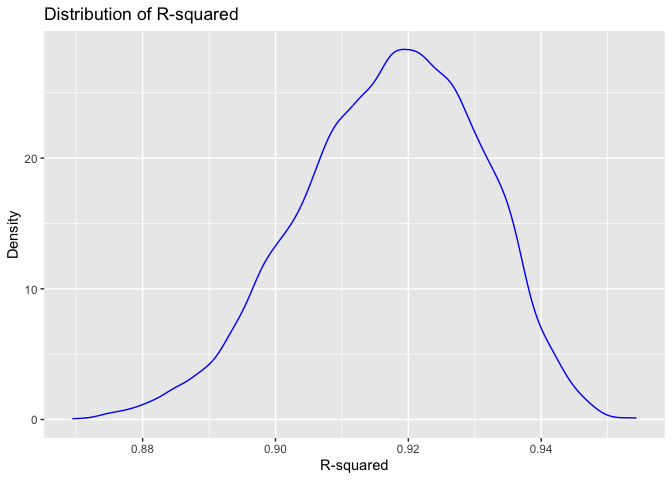
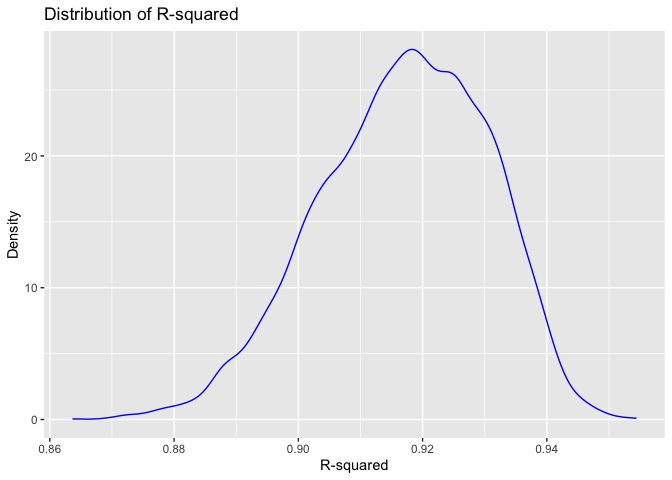
cross validation P3 and updating descriptions

diff --git a/p8105_hw6_vsm2118.md b/p8105_hw6_vsm2118.md
@@ -201,14 +201,14 @@ bootstraps %>%
     ##    <chr>          <chr>       <date>     <dbl> <dbl> <dbl>
     ##  1 CentralPark_NY USW00094728 2022-12-24     0  -9.3 -13.8
     ##  2 CentralPark_NY USW00094728 2022-12-24     0  -9.3 -13.8
-    ##  3 CentralPark_NY USW00094728 2022-12-24     0  -9.3 -13.8
-    ##  4 CentralPark_NY USW00094728 2022-01-15     0  -6   -12.1
-    ##  5 CentralPark_NY USW00094728 2022-01-21     0  -5.5  -9.9
-    ##  6 CentralPark_NY USW00094728 2022-01-21     0  -5.5  -9.9
-    ##  7 CentralPark_NY USW00094728 2022-01-21     0  -5.5  -9.9
-    ##  8 CentralPark_NY USW00094728 2022-01-30     0  -3.2 -11  
-    ##  9 CentralPark_NY USW00094728 2022-02-05     0  -2.7  -7.1
-    ## 10 CentralPark_NY USW00094728 2022-12-25     0  -2.1  -9.9
+    ##  3 CentralPark_NY USW00094728 2022-01-15     0  -6   -12.1
+    ##  4 CentralPark_NY USW00094728 2022-01-21     0  -5.5  -9.9
+    ##  5 CentralPark_NY USW00094728 2022-02-14     0  -3.8  -8.8
+    ##  6 CentralPark_NY USW00094728 2022-01-30     0  -3.2 -11  
+    ##  7 CentralPark_NY USW00094728 2022-02-05     0  -2.7  -7.1
+    ##  8 CentralPark_NY USW00094728 2022-01-26     0  -2.1  -6.6
+    ##  9 CentralPark_NY USW00094728 2022-01-26     0  -2.1  -6.6
+    ## 10 CentralPark_NY USW00094728 2022-01-29   196  -1.6 -11  
     ## # ℹ 355 more rows
     ## 
     ## [[2]]
@@ -216,31 +216,31 @@ bootstraps %>%
     ##    name           id          date        prcp  tmax  tmin
     ##    <chr>          <chr>       <date>     <dbl> <dbl> <dbl>
     ##  1 CentralPark_NY USW00094728 2022-12-24     0  -9.3 -13.8
-    ##  2 CentralPark_NY USW00094728 2022-01-21     0  -5.5  -9.9
+    ##  2 CentralPark_NY USW00094728 2022-01-15     0  -6   -12.1
     ##  3 CentralPark_NY USW00094728 2022-01-21     0  -5.5  -9.9
-    ##  4 CentralPark_NY USW00094728 2022-01-21     0  -5.5  -9.9
-    ##  5 CentralPark_NY USW00094728 2022-01-21     0  -5.5  -9.9
-    ##  6 CentralPark_NY USW00094728 2022-01-11     0  -4.3  -9.3
-    ##  7 CentralPark_NY USW00094728 2022-12-25     0  -2.1  -9.9
-    ##  8 CentralPark_NY USW00094728 2022-01-26     0  -2.1  -6.6
+    ##  4 CentralPark_NY USW00094728 2022-01-11     0  -4.3  -9.3
+    ##  5 CentralPark_NY USW00094728 2022-02-14     0  -3.8  -8.8
+    ##  6 CentralPark_NY USW00094728 2022-02-14     0  -3.8  -8.8
+    ##  7 CentralPark_NY USW00094728 2022-02-05     0  -2.7  -7.1
+    ##  8 CentralPark_NY USW00094728 2022-02-05     0  -2.7  -7.1
     ##  9 CentralPark_NY USW00094728 2022-01-26     0  -2.1  -6.6
-    ## 10 CentralPark_NY USW00094728 2022-12-25     0  -2.1  -9.9
+    ## 10 CentralPark_NY USW00094728 2022-01-26     0  -2.1  -6.6
     ## # ℹ 355 more rows
     ## 
     ## [[3]]
     ## # A tibble: 365 × 6
     ##    name           id          date        prcp  tmax  tmin
     ##    <chr>          <chr>       <date>     <dbl> <dbl> <dbl>
-    ##  1 CentralPark_NY USW00094728 2022-12-24     0  -9.3 -13.8
-    ##  2 CentralPark_NY USW00094728 2022-12-24     0  -9.3 -13.8
-    ##  3 CentralPark_NY USW00094728 2022-01-15     0  -6   -12.1
-    ##  4 CentralPark_NY USW00094728 2022-01-21     0  -5.5  -9.9
+    ##  1 CentralPark_NY USW00094728 2022-01-15     0  -6   -12.1
+    ##  2 CentralPark_NY USW00094728 2022-01-21     0  -5.5  -9.9
+    ##  3 CentralPark_NY USW00094728 2022-01-21     0  -5.5  -9.9
+    ##  4 CentralPark_NY USW00094728 2022-01-11     0  -4.3  -9.3
     ##  5 CentralPark_NY USW00094728 2022-01-11     0  -4.3  -9.3
     ##  6 CentralPark_NY USW00094728 2022-01-11     0  -4.3  -9.3
-    ##  7 CentralPark_NY USW00094728 2022-12-25     0  -2.1  -9.9
-    ##  8 CentralPark_NY USW00094728 2022-01-26     0  -2.1  -6.6
-    ##  9 CentralPark_NY USW00094728 2022-12-25     0  -2.1  -9.9
-    ## 10 CentralPark_NY USW00094728 2022-01-26     0  -2.1  -6.6
+    ##  7 CentralPark_NY USW00094728 2022-01-11     0  -4.3  -9.3
+    ##  8 CentralPark_NY USW00094728 2022-01-11     0  -4.3  -9.3
+    ##  9 CentralPark_NY USW00094728 2022-01-11     0  -4.3  -9.3
+    ## 10 CentralPark_NY USW00094728 2022-01-30     0  -3.2 -11  
     ## # ℹ 355 more rows
 
 ``` r
@@ -288,7 +288,7 @@ ggplot(aes(x = log_beta)) +
 logbeta_estimate_plot
 ```
 
-    ## Warning: Removed 10005 rows containing non-finite values (`stat_density()`).
+    ## Warning: Removed 10092 rows containing non-finite values (`stat_density()`).
 
 ![](p8105_hw6_vsm2118_files/figure-gfm/unnamed-chunk-4-2.png)<!-- -->
 
@@ -311,13 +311,13 @@ ci_log_beta = quantile(results_bootstrap$log_beta, c(0.025, 0.975), na.rm = TRUE
 print(paste("95% CI for R-squared: [", round(ci_rsquared[1], 4), ",", round(ci_rsquared[2], 4), "]"))
 ```
 
-    ## [1] "95% CI for R-squared: [ 0.889 , 0.9406 ]"
+    ## [1] "95% CI for R-squared: [ 0.8885 , 0.9398 ]"
 
 ``` r
 print(paste("95% CI for log(beta1 * beta2): [", round(ci_log_beta[1], 4), ",", round(ci_log_beta[2], 4), "]"))
 ```
 
-    ## [1] "95% CI for log(beta1 * beta2): [ -9.0638 , -4.6267 ]"
+    ## [1] "95% CI for log(beta1 * beta2): [ -8.8685 , -4.578 ]"
 
 ### Problem 3
 
@@ -554,8 +554,20 @@ final_fit %>%
 | ppwt        |    -2.676 |     0.427 |    -6.261 |   0.000 |
 | smoken      |    -4.843 |     0.586 |    -8.271 |   0.000 |
 
-\*\*\*\*\*\*\*\*ADD DESCRIPTION OF MODEL BUILDING PROCESS AND FINAL
-MODEL\*\*\*\*\*\*\*\*\*\* The final model…
+The birthweight prediction model was developed through a stepwise
+variable selection process, aiming to identify a parsimonious set of
+predictors that significantly contribute to explaining the variance in
+baby birthweight. The final model fit equation is: lm(bwt ~ babysex +
+bhead + blength + delwt + fincome + gaweeks + mheight + mrace + parity +
+ppwt + smoken, data = birthweight_df). The stepwise procedure involves
+iteratively adding or removing variables based on statistical criteria,
+ultimately leading to a model with a balanced trade-off between
+explanatory power and simplicity. The selection of these variables is
+based on their statistical significance in predicting birthweight within
+the given dataset. It is important to note that while other variables
+were considered during the stepwise procedure, the final model includes
+only those deemed to have a substantial impact on birthweight and aims
+to strike a balance between model complexity and predictive accuracy.
 
 Plot of Model Residuals
 
@@ -643,6 +655,6 @@ In summary, the initial model, which uses the predictors selected
 through the stepwise model building process, appears to provide the best
 average cross-validated prediction performance among the three models.
 Model 2, with additional predictors and interactions, performs better
-than Model 1 but not as well as the initial model. This comparison
-underscores the importance of considering the trade-off between model
-complexity and predictive accuracy.
+than Model 1 but just barely less well than the initial model. This
+comparison underscores the importance of considering the trade-off
+between model complexity and predictive accuracy.
